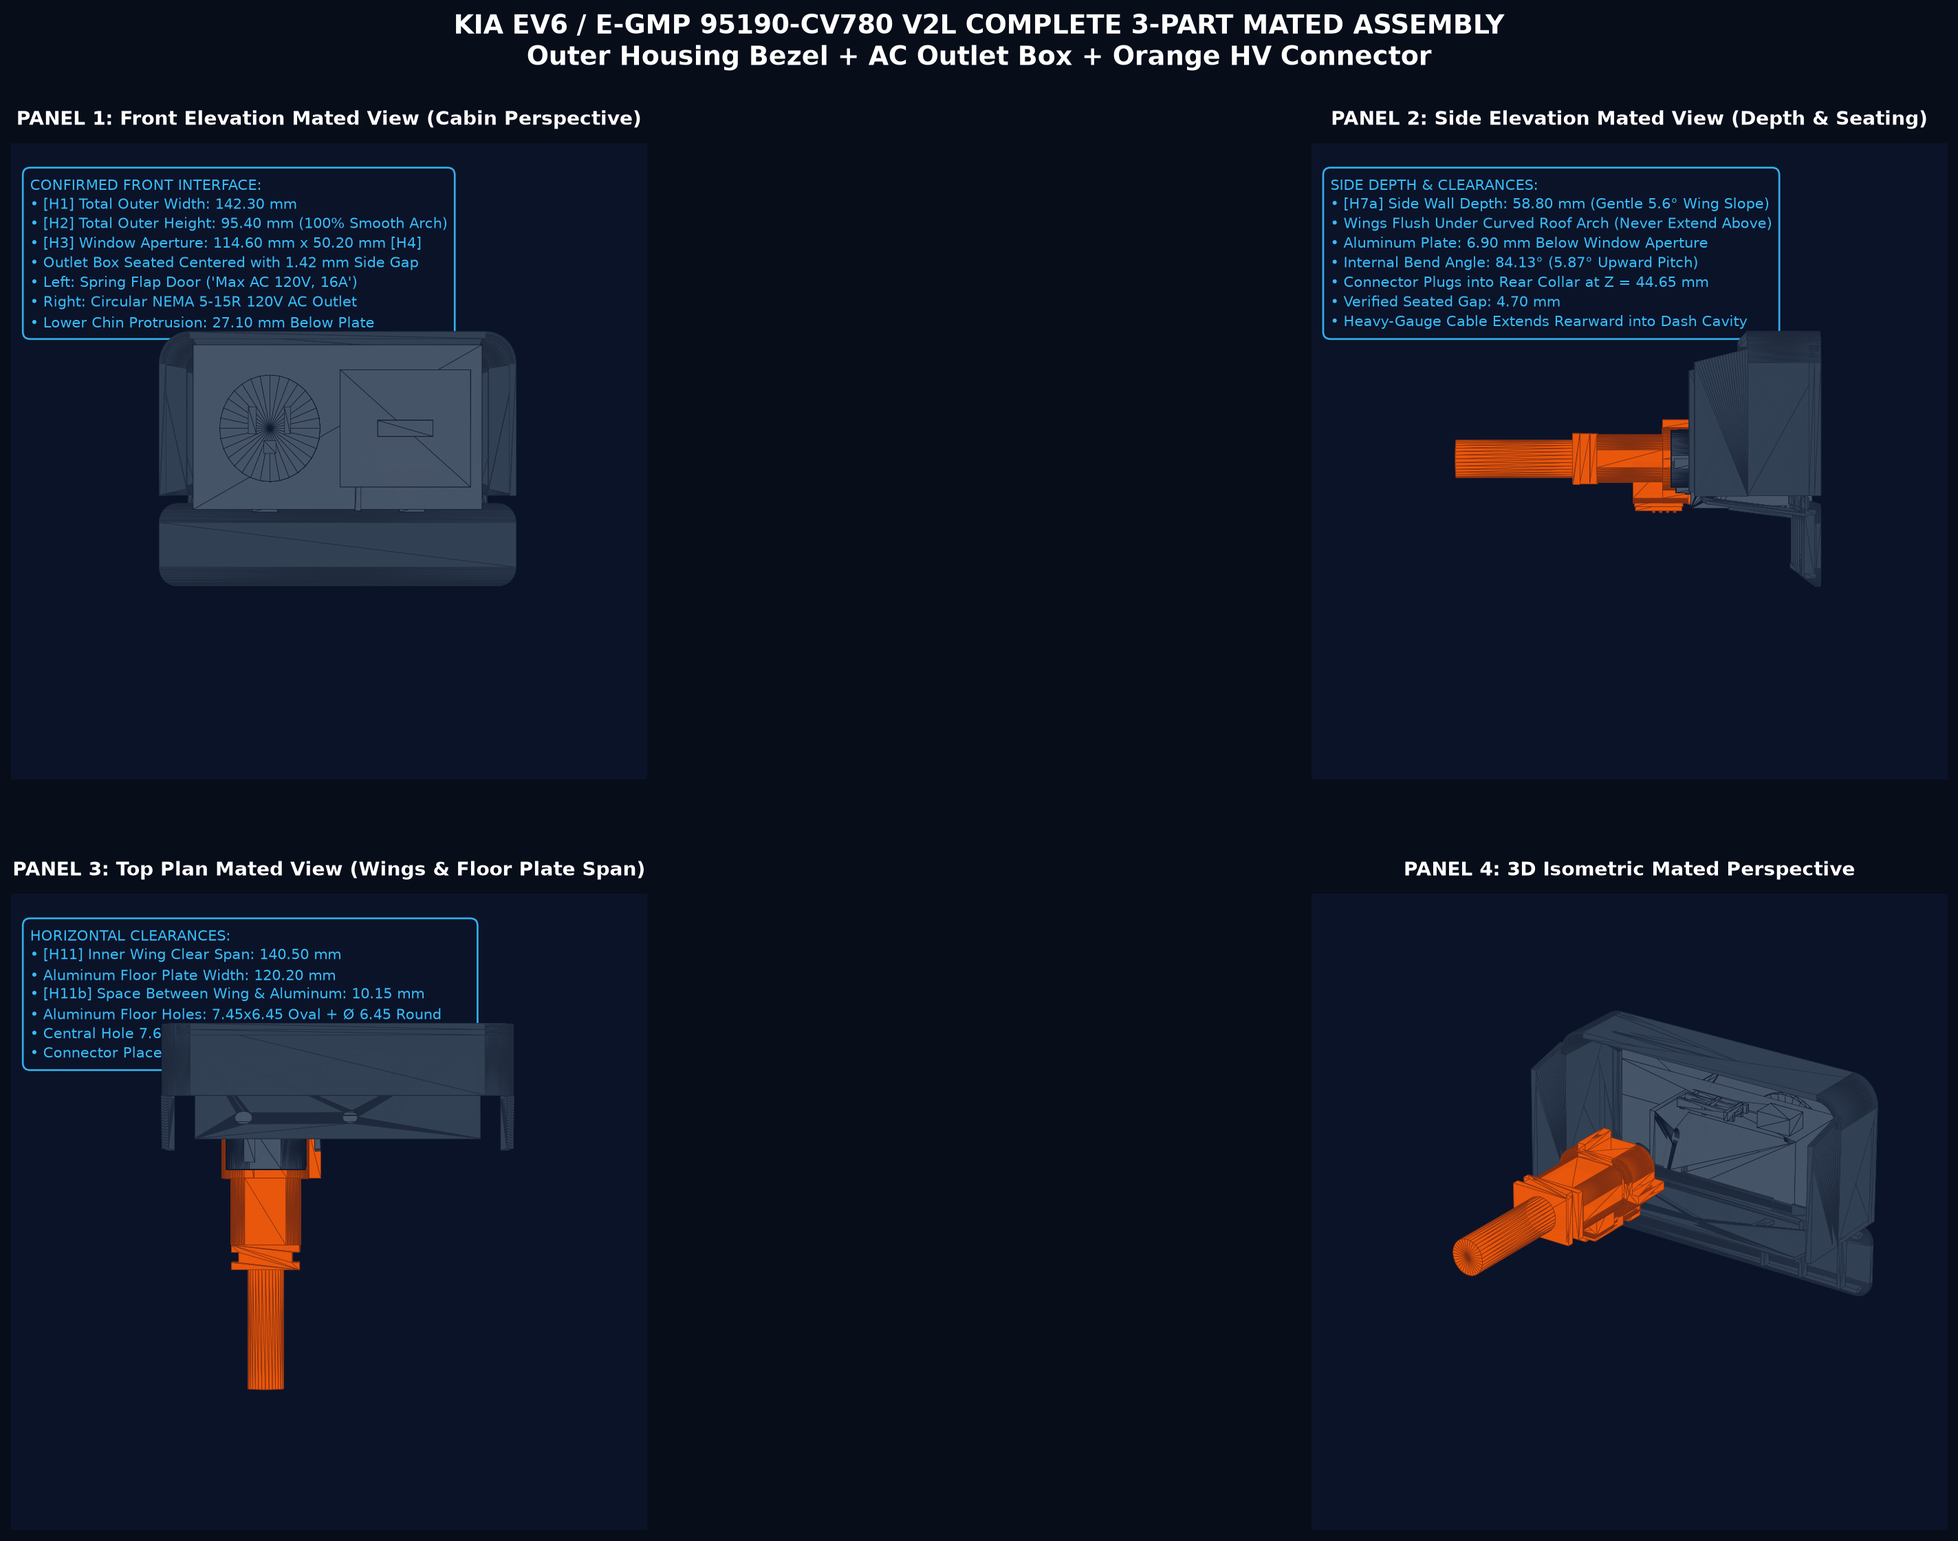
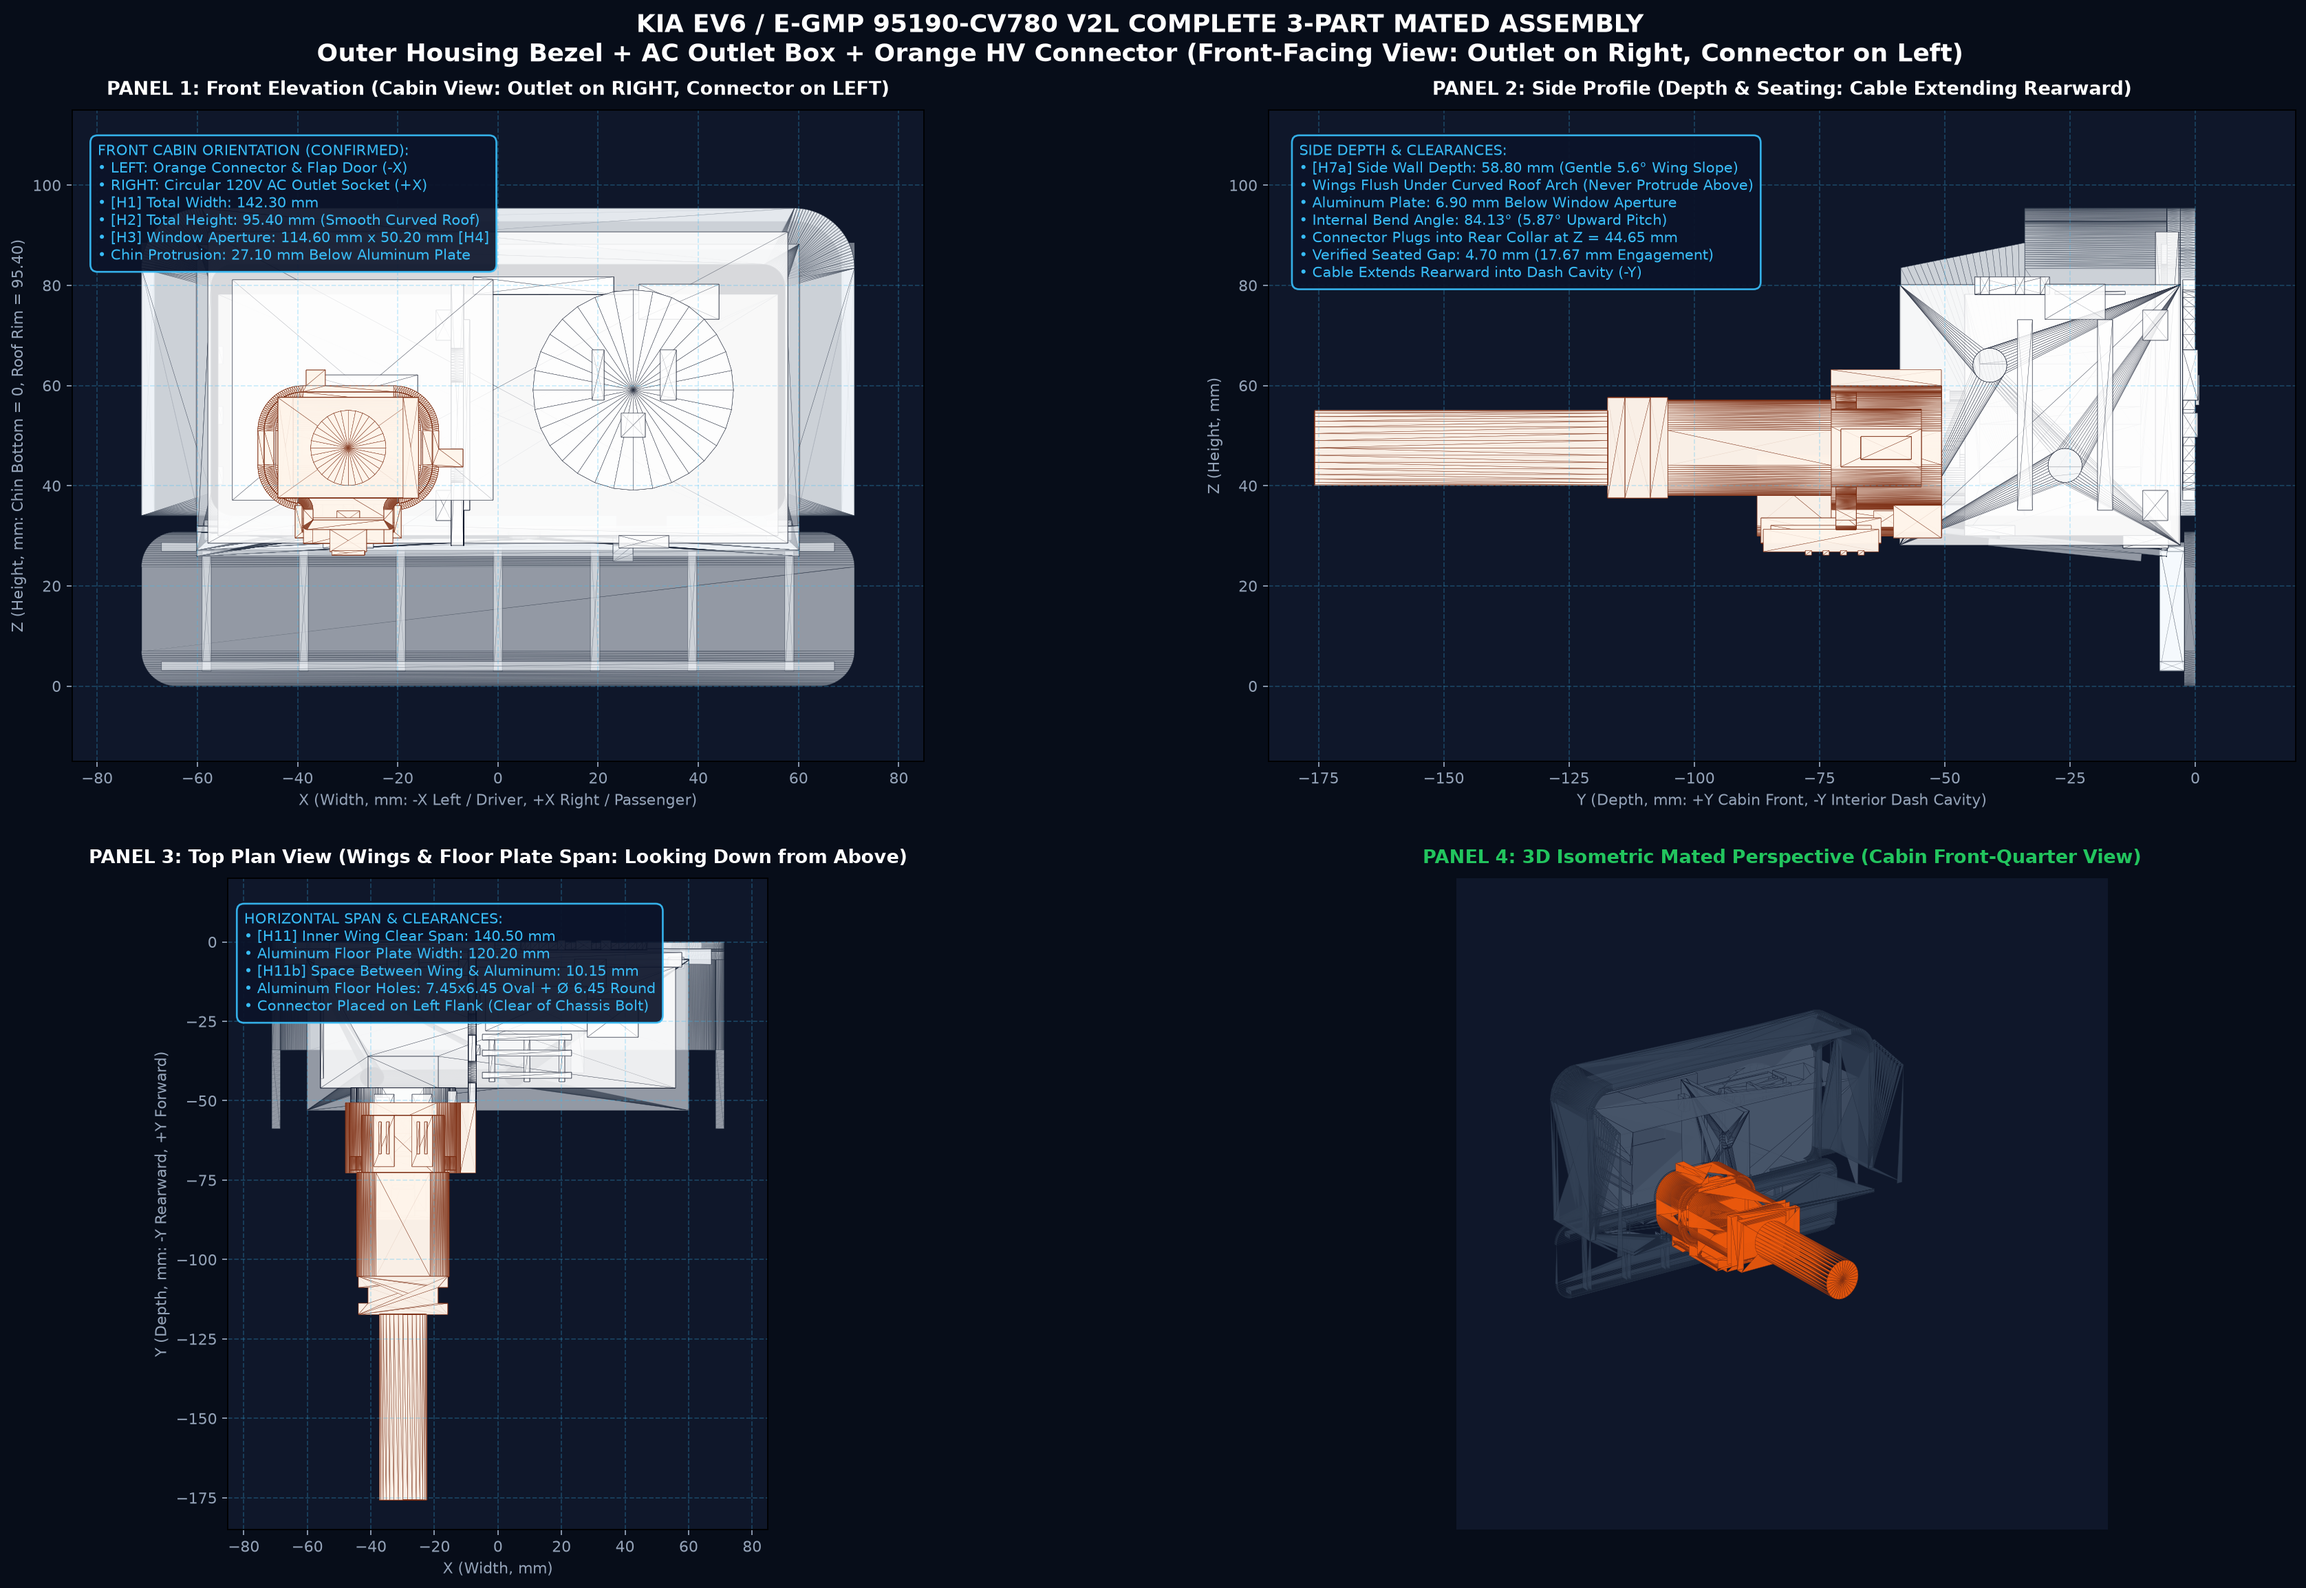
Fix mated assembly blueprint projection: Outlet on Right, Connector on Left

diff --git a/accurate_models/render_accurate_blueprints.py b/accurate_models/render_accurate_blueprints.py
@@ -230,94 +230,121 @@ def render_outlet_box_blueprint():
 # 3. RENDER MATED ASSEMBLY BLUEPRINT
 # ==============================================================================
 def render_mated_blueprint():
-    print("Rendering mated_assembly_blueprint.png...")
-    mated = trimesh.load(os.path.join(target_dir, "mated_assembly.obj"))
-    
-def render_mated_blueprint():
     print("Rendering mated_assembly_blueprint.png (3-Part System)...")
     h_mesh = trimesh.load(os.path.join(target_dir, "mated_outer_housing.stl"))
     b_mesh = trimesh.load(os.path.join(target_dir, "mated_outlet_box.stl"))
     c_mesh = trimesh.load(os.path.join(target_dir, "mated_connector.stl"))
     
     fig = plt.figure(figsize=(24, 15), dpi=160)
-    plt.subplots_adjust(left=0.03, right=0.97, top=0.88, bottom=0.04, wspace=0.10, hspace=0.18)
+    plt.subplots_adjust(left=0.04, right=0.96, top=0.90, bottom=0.04, wspace=0.12, hspace=0.18)
     fig.patch.set_facecolor('#070d19')
     
-    fig.suptitle("KIA EV6 / E-GMP 95190-CV780 V2L COMPLETE 3-PART MATED ASSEMBLY\nOuter Housing Bezel + AC Outlet Box + Orange HV Connector",
-                 color='white', fontsize=17, weight='bold', y=0.96)
+    fig.suptitle("KIA EV6 / E-GMP 95190-CV780 V2L COMPLETE 3-PART MATED ASSEMBLY\nOuter Housing Bezel + AC Outlet Box + Orange HV Connector (Front-Facing View: Outlet on Right, Connector on Left)",
+                 color='white', fontsize=16, weight='bold', y=0.96)
     
-    # PANEL 1: Front Elevation Mated View (Cabin Perspective)
-    ax1 = fig.add_subplot(2, 2, 1, projection='3d')
-    plot_mesh(ax1, h_mesh, color='#334155', edge_color='#1e293b')
-    plot_mesh(ax1, b_mesh, color='#475569', edge_color='#0f172a')
-    plot_mesh(ax1, c_mesh, color='#ea580c', edge_color='#7c2d12')
-    setup_ax_3d(ax1, "PANEL 1: Front Elevation Mated View (Cabin Perspective)",
-                xlim=[-85, 85], ylim=[-75, 15], zlim=[-10, 110], elev=0, azim=90)
+    # 1. PANEL 1: FRONT ELEVATION (2D True Projection: X vs Z)
+    ax1 = fig.add_subplot(2, 2, 1)
+    ax1.set_facecolor('#0f172a')
+    ax1.set_title("PANEL 1: Front Elevation (Cabin View: Outlet on RIGHT, Connector on LEFT)", color='white', fontsize=12, weight='bold', pad=10)
+    ax1.tripcolor(h_mesh.vertices[:, 0], h_mesh.vertices[:, 2], h_mesh.faces, facecolors=np.ones(len(h_mesh.faces)), cmap='Blues', alpha=0.35, edgecolors='#1e293b', lw=0.2)
+    ax1.tripcolor(b_mesh.vertices[:, 0], b_mesh.vertices[:, 2], b_mesh.faces, facecolors=np.ones(len(b_mesh.faces)), cmap='Greys', alpha=0.6, edgecolors='#0f172a', lw=0.2)
+    ax1.tripcolor(c_mesh.vertices[:, 0], c_mesh.vertices[:, 2], c_mesh.faces, facecolors=np.ones(len(c_mesh.faces)), cmap='Oranges', alpha=0.85, edgecolors='#7c2d12', lw=0.2)
+    ax1.set_xlim(-85, 85)
+    ax1.set_ylim(-15, 115)
+    ax1.set_aspect('equal')
+    ax1.tick_params(colors='#94a3b8')
+    ax1.set_xlabel("X (Width, mm: -X Left / Driver, +X Right / Passenger)", color='#94a3b8', fontsize=10)
+    ax1.set_ylabel("Z (Height, mm: Chin Bottom = 0, Roof Rim = 95.40)", color='#94a3b8', fontsize=10)
+    ax1.grid(True, linestyle='--', alpha=0.25, color='#38bdf8')
     
     txt1 = (
-        "CONFIRMED FRONT INTERFACE:\n"
-        "• [H1] Total Outer Width: 142.30 mm\n"
-        "• [H2] Total Outer Height: 95.40 mm (100% Smooth Arch)\n"
+        "FRONT CABIN ORIENTATION (CONFIRMED):\n"
+        "• LEFT: Orange Connector & Flap Door (-X)\n"
+        "• RIGHT: Circular 120V AC Outlet Socket (+X)\n"
+        "• [H1] Total Width: 142.30 mm\n"
+        "• [H2] Total Height: 95.40 mm (Smooth Curved Roof)\n"
         "• [H3] Window Aperture: 114.60 mm x 50.20 mm [H4]\n"
-        "• Outlet Box Seated Centered with 1.42 mm Side Gap\n"
-        "• Left: Spring Flap Door ('Max AC 120V, 16A')\n"
-        "• Right: Circular NEMA 5-15R 120V AC Outlet\n"
-        "• Lower Chin Protrusion: 27.10 mm Below Plate"
+        "• Chin Protrusion: 27.10 mm Below Aluminum Plate"
     )
-    ax1.text2D(0.03, 0.95, txt1, transform=ax1.transAxes, color='#38bdf8', fontsize=9.5,
-               va='top', linespacing=1.35,
-               bbox=dict(boxstyle='round,pad=0.5', facecolor='#0b1329', edgecolor='#38bdf8', alpha=0.92, lw=1.2))
+    ax1.text(0.03, 0.95, txt1, transform=ax1.transAxes, color='#38bdf8', fontsize=9.5, va='top',
+             bbox=dict(boxstyle='round,pad=0.5', facecolor='#0b1329', edgecolor='#38bdf8', alpha=0.92, lw=1.2))
 
-    # PANEL 2: Left Side Elevation Mated View
-    ax2 = fig.add_subplot(2, 2, 2, projection='3d')
-    plot_mesh(ax2, h_mesh, color='#334155', edge_color='#1e293b')
-    plot_mesh(ax2, b_mesh, color='#475569', edge_color='#0f172a')
-    plot_mesh(ax2, c_mesh, color='#ea580c', edge_color='#7c2d12')
-    setup_ax_3d(ax2, "PANEL 2: Side Elevation Mated View (Depth & Seating)",
-                xlim=[-85, 85], ylim=[-185, 15], zlim=[-10, 110], elev=0, azim=0)
+    # 2. PANEL 2: SIDE PROFILE (2D True Projection: Y vs Z)
+    ax2 = fig.add_subplot(2, 2, 2)
+    ax2.set_facecolor('#0f172a')
+    ax2.set_title("PANEL 2: Side Profile (Depth & Seating: Cable Extending Rearward)", color='white', fontsize=12, weight='bold', pad=10)
+    ax2.tripcolor(h_mesh.vertices[:, 1], h_mesh.vertices[:, 2], h_mesh.faces, facecolors=np.ones(len(h_mesh.faces)), cmap='Blues', alpha=0.35, edgecolors='#1e293b', lw=0.2)
+    ax2.tripcolor(b_mesh.vertices[:, 1], b_mesh.vertices[:, 2], b_mesh.faces, facecolors=np.ones(len(b_mesh.faces)), cmap='Greys', alpha=0.6, edgecolors='#0f172a', lw=0.2)
+    ax2.tripcolor(c_mesh.vertices[:, 1], c_mesh.vertices[:, 2], c_mesh.faces, facecolors=np.ones(len(c_mesh.faces)), cmap='Oranges', alpha=0.85, edgecolors='#7c2d12', lw=0.2)
+    ax2.set_xlim(-185, 20)
+    ax2.set_ylim(-15, 115)
+    ax2.set_aspect('equal')
+    ax2.tick_params(colors='#94a3b8')
+    ax2.set_xlabel("Y (Depth, mm: +Y Cabin Front, -Y Interior Dash Cavity)", color='#94a3b8', fontsize=10)
+    ax2.set_ylabel("Z (Height, mm)", color='#94a3b8', fontsize=10)
+    ax2.grid(True, linestyle='--', alpha=0.25, color='#38bdf8')
     
     txt2 = (
         "SIDE DEPTH & CLEARANCES:\n"
         "• [H7a] Side Wall Depth: 58.80 mm (Gentle 5.6° Wing Slope)\n"
-        "• Wings Flush Under Curved Roof Arch (Never Extend Above)\n"
+        "• Wings Flush Under Curved Roof Arch (Never Protrude Above)\n"
         "• Aluminum Plate: 6.90 mm Below Window Aperture\n"
         "• Internal Bend Angle: 84.13° (5.87° Upward Pitch)\n"
         "• Connector Plugs into Rear Collar at Z = 44.65 mm\n"
-        "• Verified Seated Gap: 4.70 mm\n"
-        "• Heavy-Gauge Cable Extends Rearward into Dash Cavity"
+        "• Verified Seated Gap: 4.70 mm (17.67 mm Engagement)\n"
+        "• Cable Extends Rearward into Dash Cavity (-Y)"
     )
-    ax2.text2D(0.03, 0.95, txt2, transform=ax2.transAxes, color='#38bdf8', fontsize=9.5,
-               va='top', linespacing=1.35,
-               bbox=dict(boxstyle='round,pad=0.5', facecolor='#0b1329', edgecolor='#38bdf8', alpha=0.92, lw=1.2))
+    ax2.text(0.03, 0.95, txt2, transform=ax2.transAxes, color='#38bdf8', fontsize=9.5, va='top',
+             bbox=dict(boxstyle='round,pad=0.5', facecolor='#0b1329', edgecolor='#38bdf8', alpha=0.92, lw=1.2))
 
-    # PANEL 3: Top Plan Mated View
-    ax3 = fig.add_subplot(2, 2, 3, projection='3d')
-    plot_mesh(ax3, h_mesh, color='#334155', edge_color='#1e293b')
-    plot_mesh(ax3, b_mesh, color='#475569', edge_color='#0f172a')
-    plot_mesh(ax3, c_mesh, color='#ea580c', edge_color='#7c2d12')
-    setup_ax_3d(ax3, "PANEL 3: Top Plan Mated View (Wings & Floor Plate Span)",
-                xlim=[-85, 85], ylim=[-185, 15], zlim=[-10, 110], elev=90, azim=-90)
+    # 3. PANEL 3: TOP PLAN VIEW (2D True Projection: X vs Y)
+    ax3 = fig.add_subplot(2, 2, 3)
+    ax3.set_facecolor('#0f172a')
+    ax3.set_title("PANEL 3: Top Plan View (Wings & Floor Plate Span: Looking Down from Above)", color='white', fontsize=12, weight='bold', pad=10)
+    ax3.tripcolor(h_mesh.vertices[:, 0], h_mesh.vertices[:, 1], h_mesh.faces, facecolors=np.ones(len(h_mesh.faces)), cmap='Blues', alpha=0.35, edgecolors='#1e293b', lw=0.2)
+    ax3.tripcolor(b_mesh.vertices[:, 0], b_mesh.vertices[:, 1], b_mesh.faces, facecolors=np.ones(len(b_mesh.faces)), cmap='Greys', alpha=0.6, edgecolors='#0f172a', lw=0.2)
+    ax3.tripcolor(c_mesh.vertices[:, 0], c_mesh.vertices[:, 1], c_mesh.faces, facecolors=np.ones(len(c_mesh.faces)), cmap='Oranges', alpha=0.85, edgecolors='#7c2d12', lw=0.2)
+    ax3.set_xlim(-85, 85)
+    ax3.set_ylim(-185, 20)
+    ax3.set_aspect('equal')
+    ax3.tick_params(colors='#94a3b8')
+    ax3.set_xlabel("X (Width, mm)", color='#94a3b8', fontsize=10)
+    ax3.set_ylabel("Y (Depth, mm: -Y Rearward, +Y Forward)", color='#94a3b8', fontsize=10)
+    ax3.grid(True, linestyle='--', alpha=0.25, color='#38bdf8')
     
     txt3 = (
-        "HORIZONTAL CLEARANCES:\n"
+        "HORIZONTAL SPAN & CLEARANCES:\n"
         "• [H11] Inner Wing Clear Span: 140.50 mm\n"
         "• Aluminum Floor Plate Width: 120.20 mm\n"
         "• [H11b] Space Between Wing & Aluminum: 10.15 mm\n"
         "• Aluminum Floor Holes: 7.45x6.45 Oval + Ø 6.45 Round\n"
-        "• Central Hole 7.60 mm from Back, Oval 7.30 mm from Back\n"
         "• Connector Placed on Left Flank (Clear of Chassis Bolt)"
     )
-    ax3.text2D(0.03, 0.95, txt3, transform=ax3.transAxes, color='#38bdf8', fontsize=9.5,
-               va='top', linespacing=1.35,
-               bbox=dict(boxstyle='round,pad=0.5', facecolor='#0b1329', edgecolor='#38bdf8', alpha=0.92, lw=1.2))
+    ax3.text(0.03, 0.95, txt3, transform=ax3.transAxes, color='#38bdf8', fontsize=9.5, va='top',
+             bbox=dict(boxstyle='round,pad=0.5', facecolor='#0b1329', edgecolor='#38bdf8', alpha=0.92, lw=1.2))
 
-    # PANEL 4: 3D Isometric View
+    # 4. PANEL 4: 3D ISOMETRIC VIEW (Cabin Perspective: Looking from Front-Left at Bezel)
     ax4 = fig.add_subplot(2, 2, 4, projection='3d')
-    plot_mesh(ax4, h_mesh, color='#334155', edge_color='#1e293b')
-    plot_mesh(ax4, b_mesh, color='#475569', edge_color='#0f172a')
-    plot_mesh(ax4, c_mesh, color='#ea580c', edge_color='#7c2d12')
-    setup_ax_3d(ax4, "PANEL 4: 3D Isometric Mated Perspective",
-                xlim=[-85, 85], ylim=[-185, 15], zlim=[-10, 110], elev=25, azim=-55)
+    ax4.set_facecolor('#0f172a')
+    ax4.set_title("PANEL 4: 3D Isometric Mated Perspective (Cabin Front-Quarter View)", color='#22c55e', fontsize=12, weight='bold', pad=10)
+    
+    def add_mesh_3d(mesh, color, edge_color, alpha=0.85):
+        v = mesh.vertices
+        f = mesh.faces[::2]
+        pc = Poly3DCollection(v[f], facecolors=color, alpha=alpha)
+        pc.set_edgecolor(edge_color)
+        pc.set_linewidth(0.2)
+        ax4.add_collection3d(pc)
+
+    add_mesh_3d(h_mesh, '#334155', '#1e293b', alpha=0.8)
+    add_mesh_3d(b_mesh, '#475569', '#0f172a', alpha=0.85)
+    add_mesh_3d(c_mesh, '#ea580c', '#7c2d12', alpha=0.95)
+
+    ax4.set_xlim(-85, 85)
+    ax4.set_ylim(-185, 20)
+    ax4.set_zlim(-10, 110)
+    ax4.view_init(elev=22, azim=-125)
+    ax4.axis('off')
     
     art_dir = r"C:\Users\Elliot\.gemini\antigravity\brain\ca2c4a5c-394a-4c0b-b99d-8dde76573538"
     os.makedirs(art_dir, exist_ok=True)
